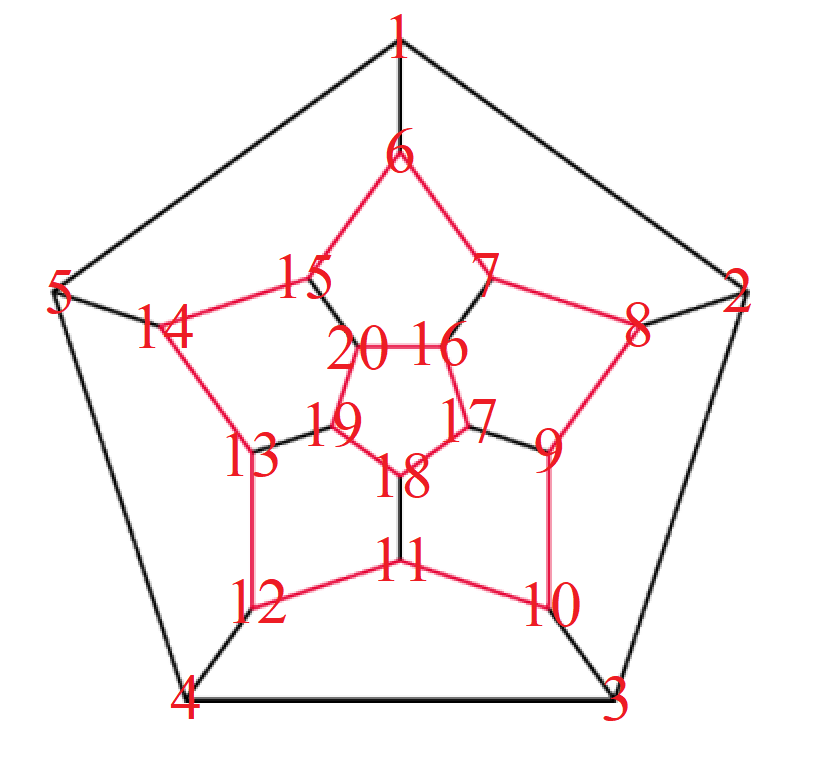
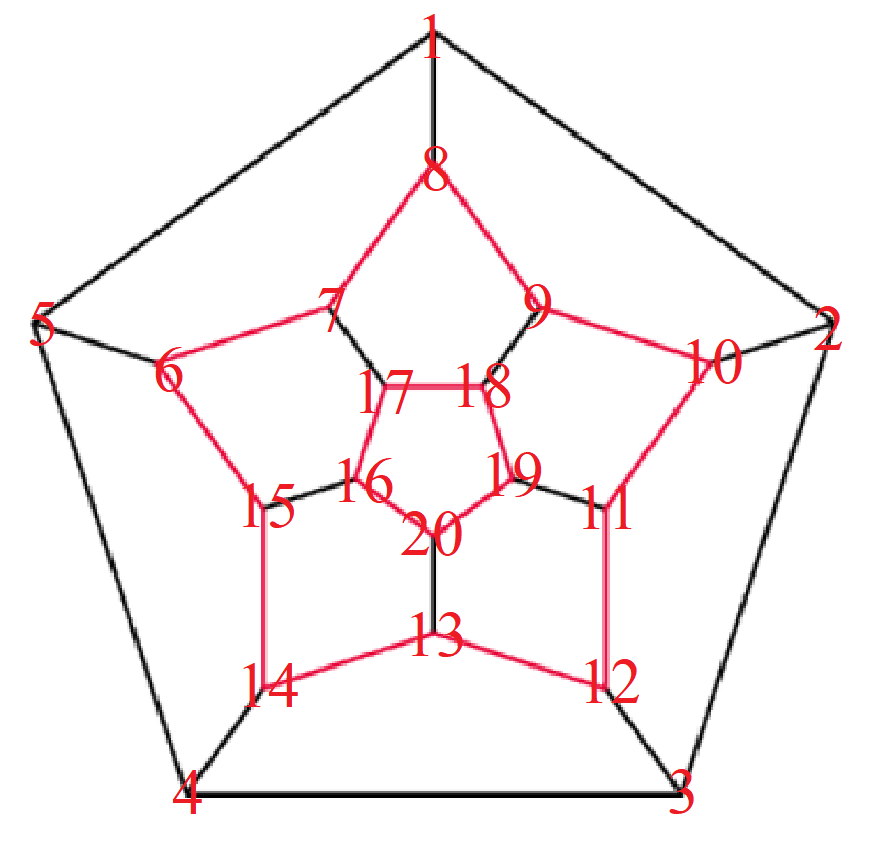
+"map generator" bugs fixed, +"find" method upgraded, +map structure changed, +map.png upgraded.

diff --git a/HuntTheHumpus/main.cpp b/HuntTheHumpus/main.cpp
@@ -1,15 +1,18 @@
 #include <iostream>
+#include <cstdlib>
+#include <ctime>
 
 namespace map {
 	enum RoomState {
 		nothing = 0,
 		monster = 1,
-		catapulta = 2,
+		catapult = 2,
 		player = 3,
 		hole = 4
 	};
 
 	class Room {
+	private:
 		int number;
 		Room* adjoing_1;
 		Room* adjoing_2;
@@ -20,24 +23,25 @@ namespace map {
 		Room(const int& n, const RoomState& rs = nothing, Room* r1 = nullptr, Room* r2 = nullptr, Room* r3 = nullptr)
 			: number{ n }, state{ rs }, adjoing_1{ r1 }, adjoing_2{ r2 }, adjoing_3{ r3 } {}
 
-
-
 		Room* find(int i) {
 			Room* tmp = this;
+			while(tmp->number != i) tmp = closer_room(i, tmp->adjoing_1, tmp->adjoing_2, tmp->adjoing_3);
+			return tmp;
+		}
 
-			for (int j = 0; j != 30; j--) {
-				if (tmp->number == i) return tmp;
-
-				if (j > 8 && i > tmp->number && tmp->number % 2 == 1) tmp = tmp->adjoing_3;
-				else if (j > 8 && i < tmp->number && tmp->number % 2 == 0) tmp = tmp->adjoing_3;
-				else tmp = tmp->adjoing_2;
-			}
-			return this;
+		Room* find_in_circle(int number) {
+			Room* tmp = this;
+			do {
+				tmp = tmp->adjoing_1;
+			} while (tmp->number != number && tmp->number != this->number);
+			return (tmp->number == number) ? tmp : nullptr;
 		}
 
 		friend Room* map_generator();
 		friend Room* create_circle(int start, int end);
 		friend void merge_circles(Room* firCircle, Room* secCircle, Room* thiCircle);
+		friend Room* closer_room(int target, Room* firstRoom, Room* secondRoom, Room* thirdRoom);
+		friend void random_states(Room* room, int howMany, RoomState state);
 	};
 
 	Room* create_circle(int start, int end) {
@@ -79,15 +83,61 @@ namespace map {
 		Room* secCircle = create_circle(6, 15);
 		Room* thiCircle = create_circle(16, 20);
 
+		secCircle = secCircle->find_in_circle(8);
+		thiCircle = thiCircle->find_in_circle(18);
+
 		merge_circles(firCircle, secCircle, thiCircle);
+
+		random_states(firCircle, 4, catapult);
+		random_states(firCircle, 4, hole);
+		random_states(firCircle, 1, monster);
+		random_states(firCircle, 1, player);
 
 		return firCircle;
 	}
+
+	void random_states(Room* room, int howMany, RoomState newState) {
+		srand(time(NULL));
+
+		for (int i = 0; i != howMany; i++) {
+			int random;
+			do{ 
+				random = (rand() % 20) +1; 
+				room = room->find(random);
+			} while (room->state != 0);
+			room->state = newState;
+		}
+		return;
+	}
+
+	int how_far(int first, int second) {
+		return abs(first - second);
+	}
+
+	Room* closer_room(int target, Room* firstRoom, Room* secondRoom, Room* thirdRoom) {
+		Room* tmp = (how_far(target, firstRoom->number) <= how_far(target, secondRoom->number)) ? firstRoom : secondRoom;
+		return (how_far(target, tmp->number) <= how_far(target, thirdRoom->number)) ? tmp : thirdRoom;
+
+	}
 }
 
+namespace game_engine {
+
+}
 
 int main() {
 	map::Room* map = map::map_generator();
 
 	return 0;
 }
+
+/*Room* find(int i) {
+			Room* tmp = this;
+
+			for (int j = 0; tmp->number == i; j--) {
+				if (j > 8 && i > tmp->number && tmp->number % 2 == 1) tmp = tmp->adjoing_3;
+				else if (j > 8 && i < tmp->number && tmp->number % 2 == 0) tmp = tmp->adjoing_3;
+				else tmp = tmp->adjoing_2;
+			}
+			return tmp;
+			}*/
